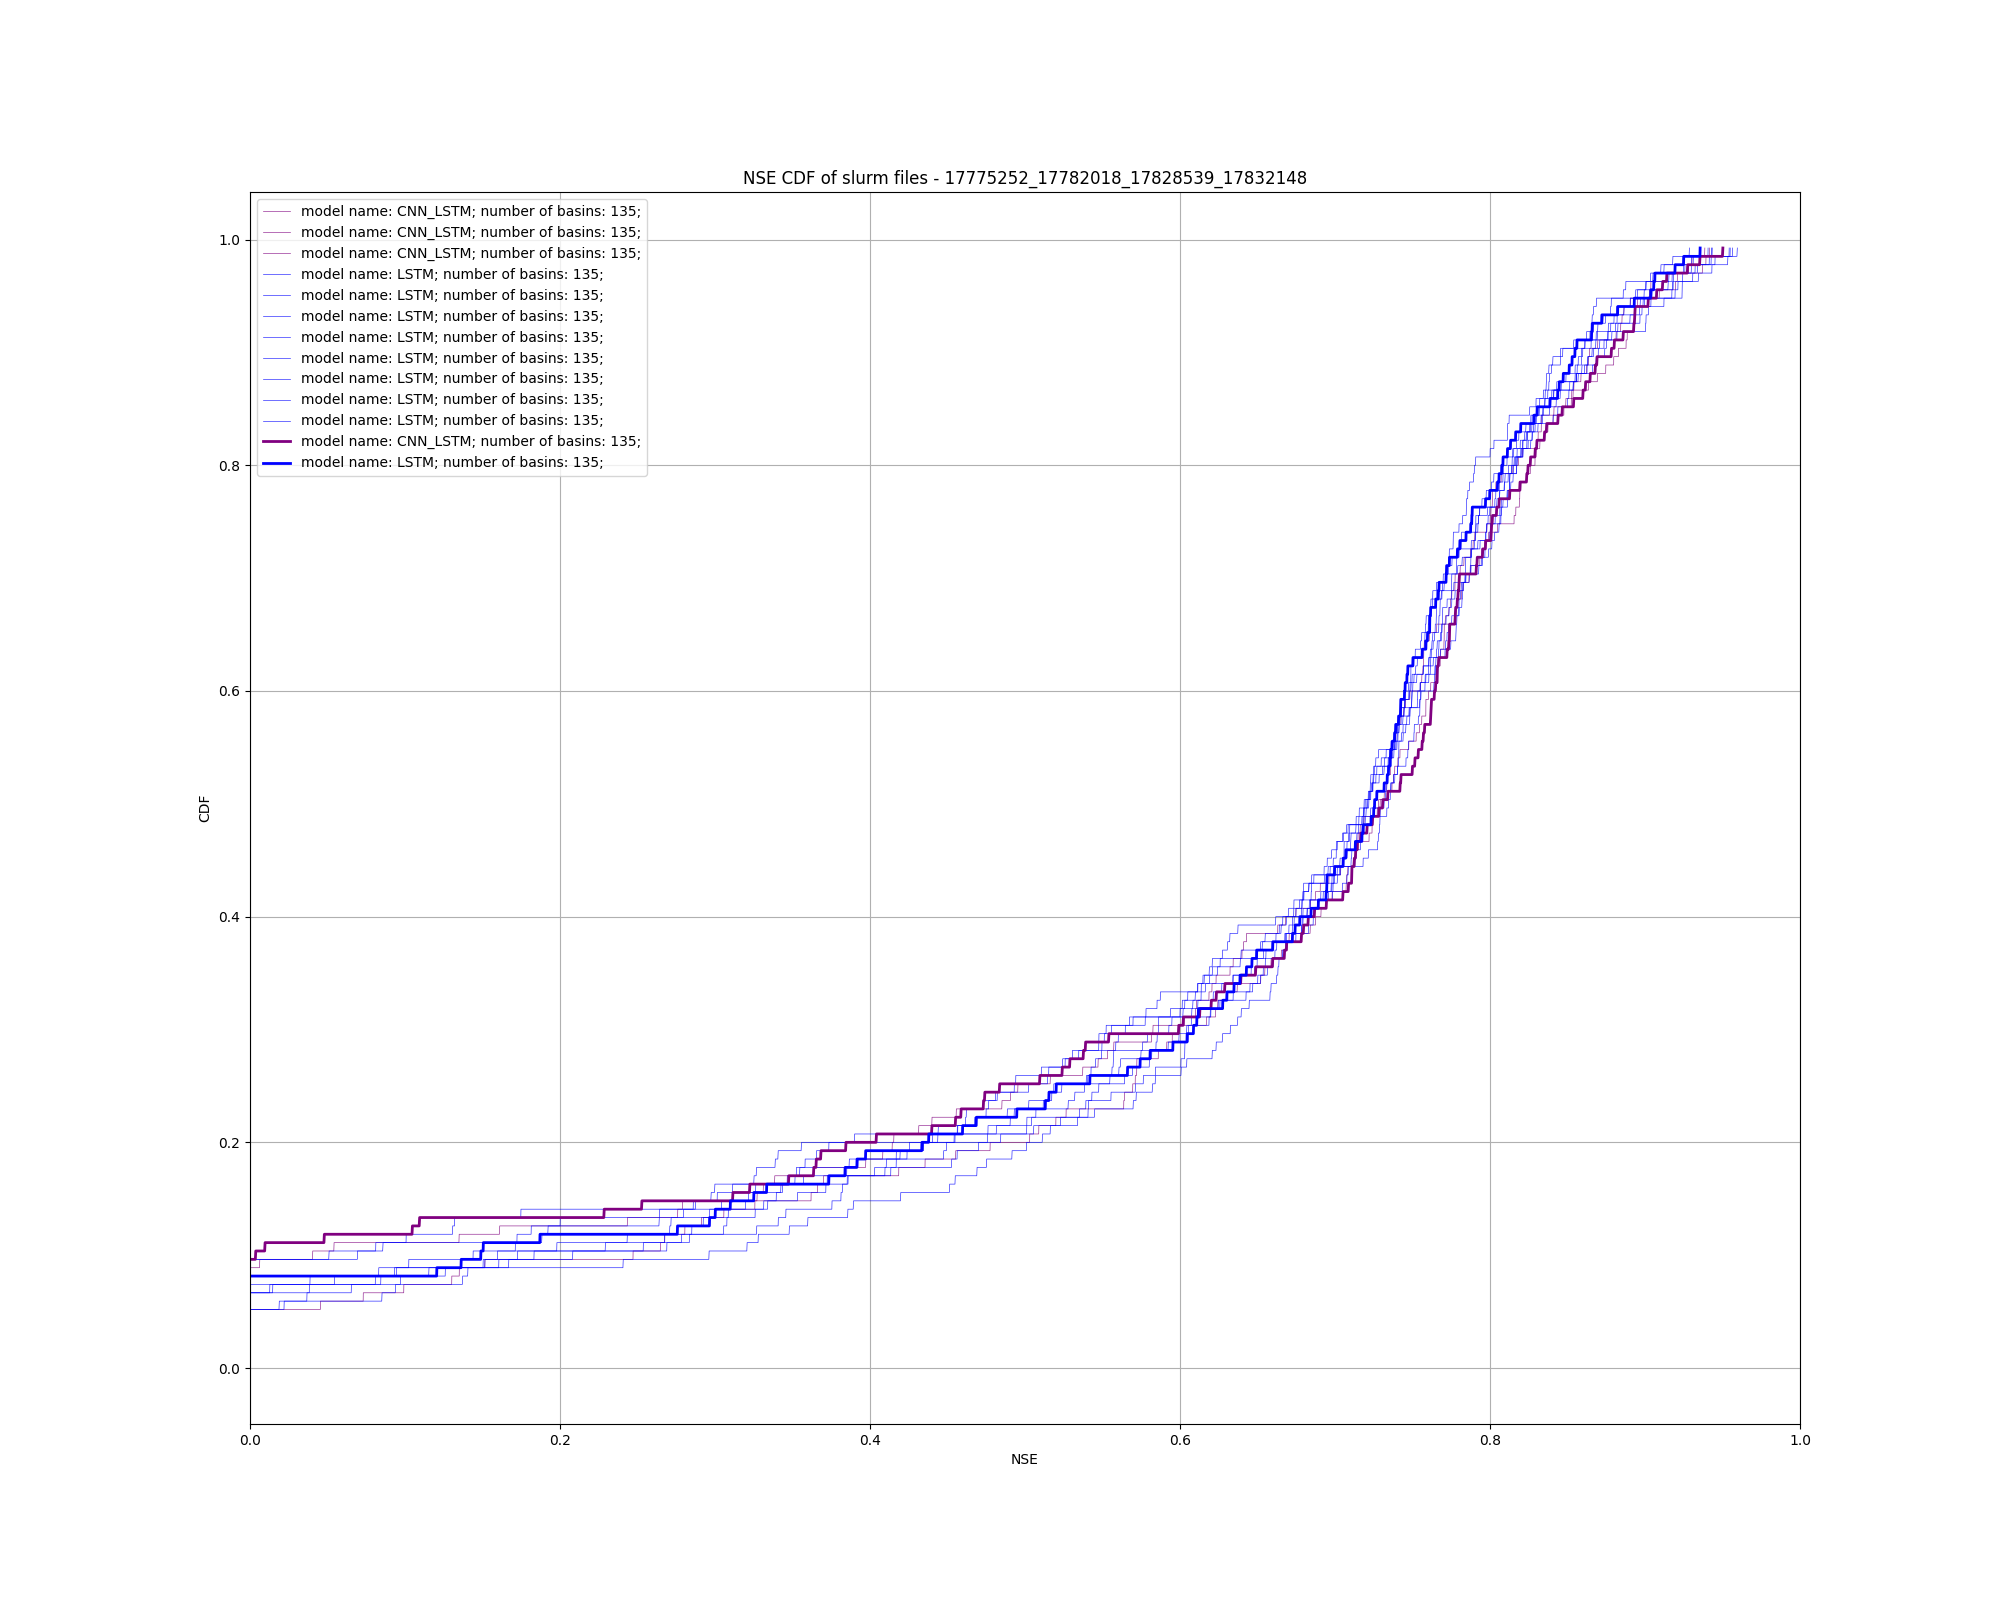
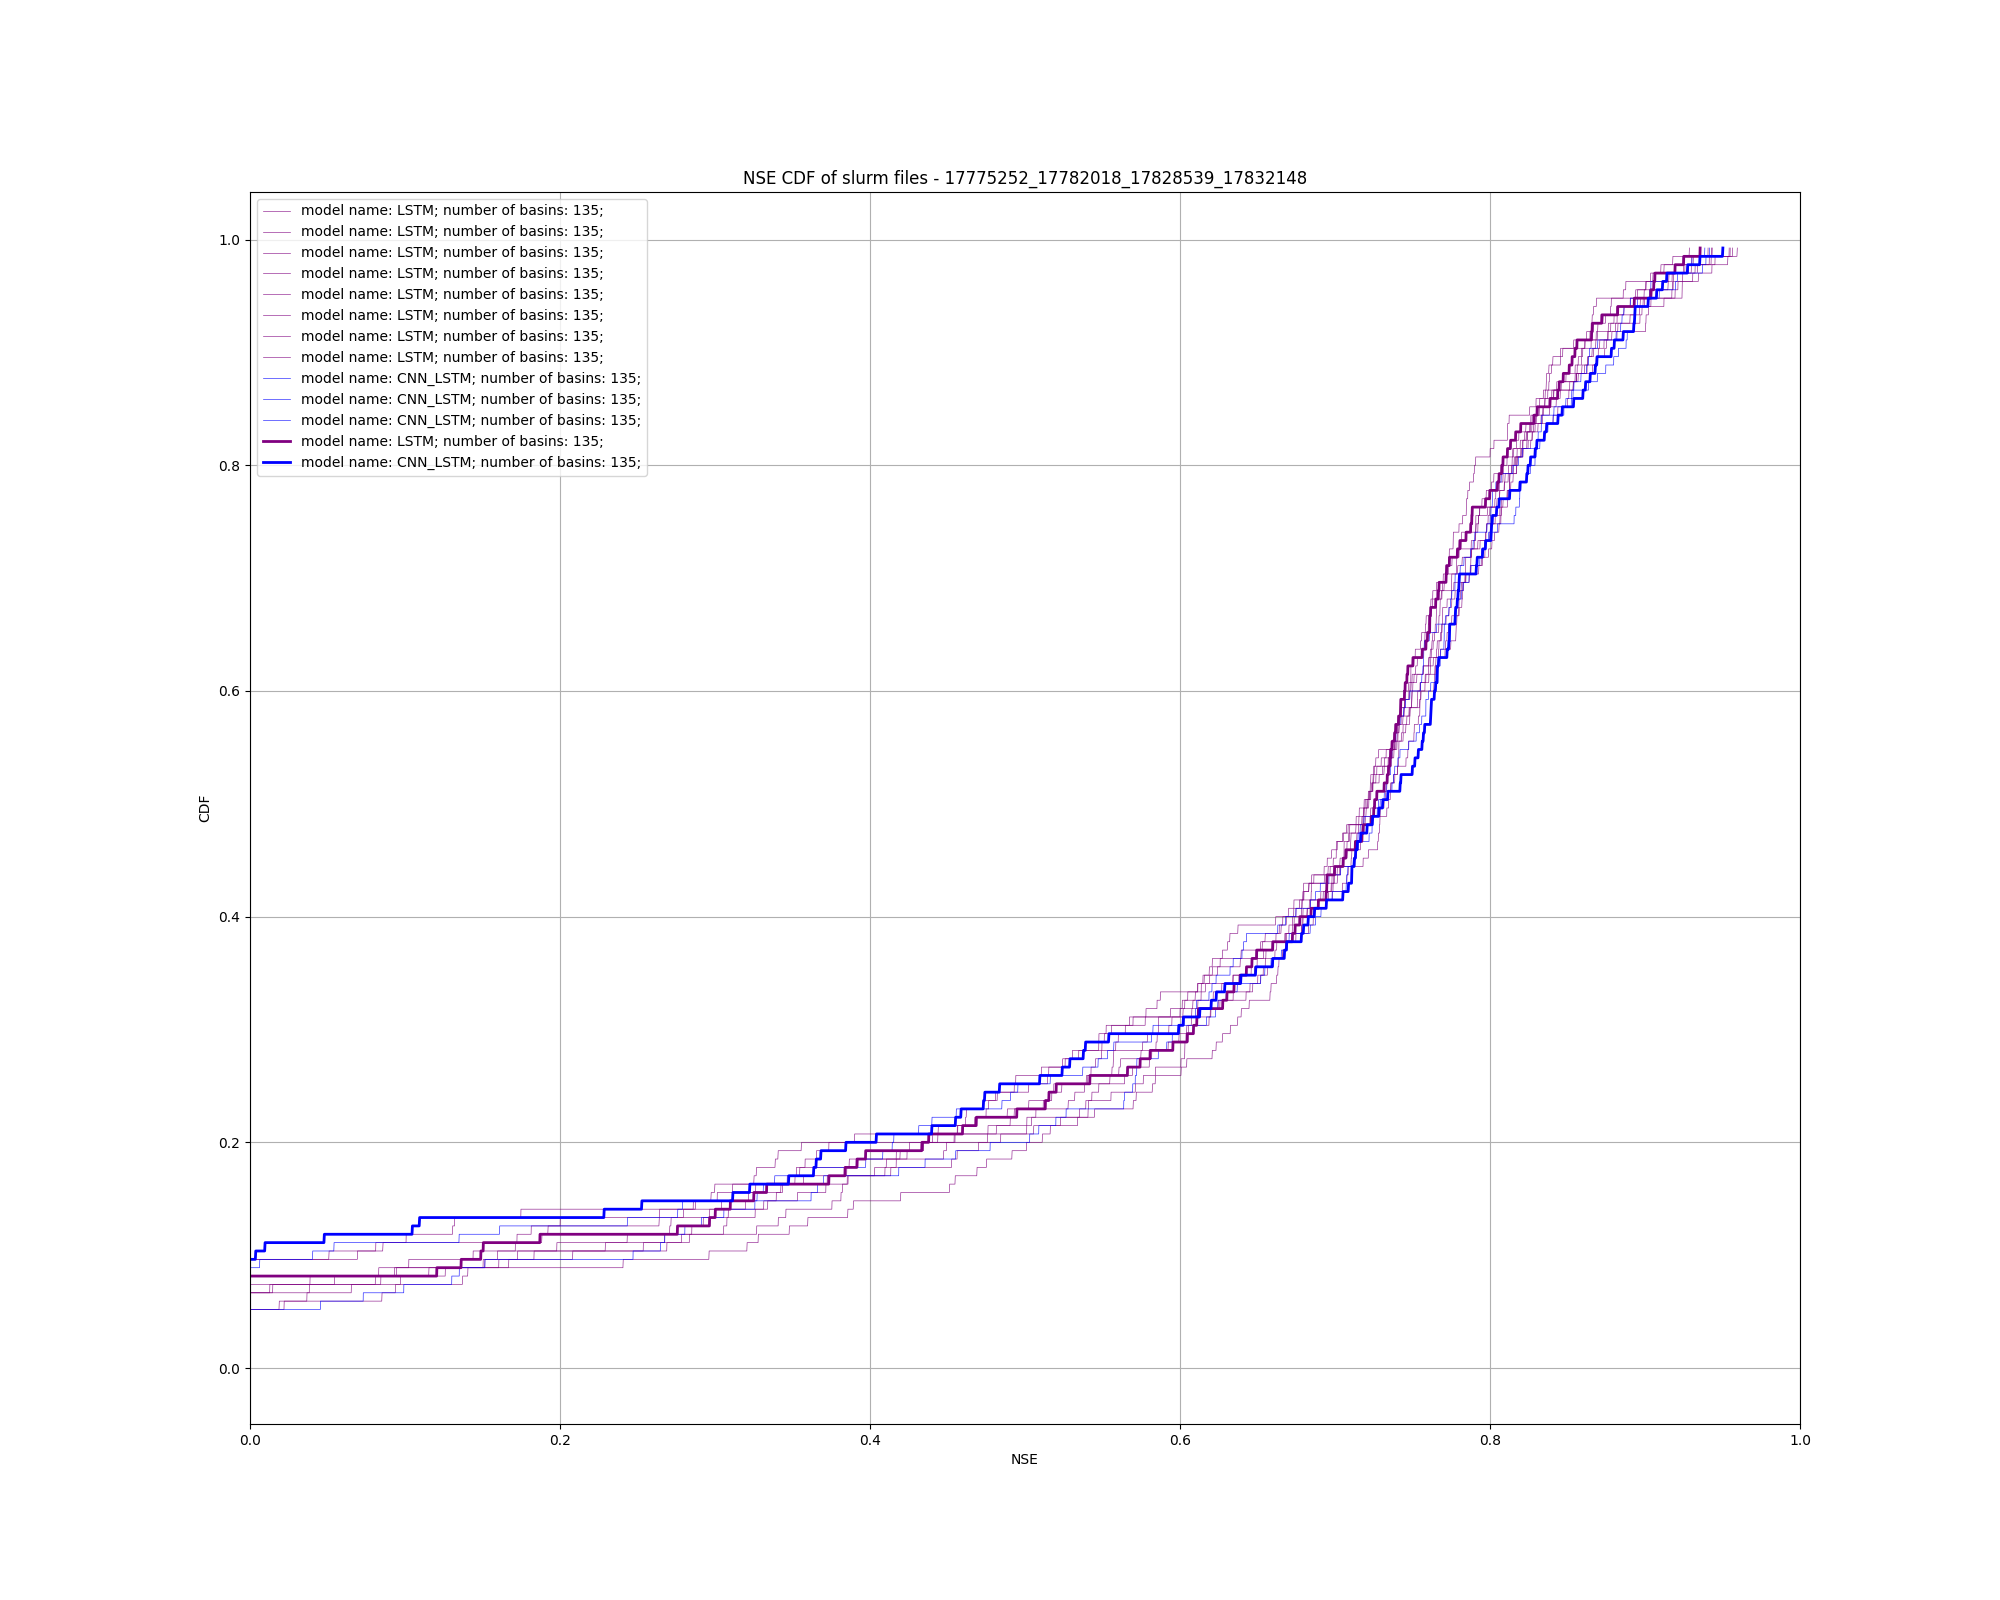
fixing creating NSE CDF plot from multiple files

Changed region(s): [[0.124, 0.25, 0.775, 0.8125], [0.155, 0.125, 0.31, 0.3125], [0.775, 0.1562, 0.868, 0.25]]

diff --git a/src/create_CDF_NSE_comparison_plot_from_slurm_output.py b/src/create_CDF_NSE_comparison_plot_from_slurm_output.py
@@ -67,7 +67,7 @@ def calc_best_nse_per_model_and_num_basins(models_basins_nse_dict):
                                 (model_name, run_number, basins_tuple, params_dict)] = list_nse
                             print(f"best epoch until now is: {epoch_num}")
     model_name_and_params_dict_to_nse_lists = {}
-    model_name_and_params_dict_to_avg_nse = {}
+    model_name_and_params_dict_to_sum_nse = {}
     for model_name_in_list in model_names:
         for params_dict_in_list in params_dicts:
             model_name_and_params_dict_to_nse_lists[(model_name_in_list, params_dict_in_list)] = []
@@ -80,12 +80,13 @@ def calc_best_nse_per_model_and_num_basins(models_basins_nse_dict):
             nse_lists = model_name_and_params_dict_to_nse_lists[(model_name_in_list, params_dict_in_list)]
             if len(nse_lists) > 0:
                 nse_lists_concat = np.vstack(nse_lists)
-                model_name_and_params_dict_to_avg_nse[(model_name_in_list, params_dict_in_list)] = np.mean(
+                model_name_and_params_dict_to_sum_nse[(model_name_in_list, params_dict_in_list)] = np.sum(
                     nse_lists_concat, axis=0)
-    return model_name_and_basins_tuple_to_best_nse, model_name_and_params_dict_to_avg_nse
+    return model_name_and_basins_tuple_to_best_nse, model_name_and_params_dict_to_sum_nse
 
 
 def create_dict_basin_id_to_NSE_my_code(logs_filename):
+    slurm_process_id = logs_filename.name.replace('slurm-', '').replace('.out', '')
     models_basins_nse_dict = {}
     model_name = "empty_model_name"
     run_number = 0
@@ -109,7 +110,8 @@ def create_dict_basin_id_to_NSE_my_code(logs_filename):
                 if new_run_number != run_number:
                     run_number = new_run_number
                     epoch_num = 1
-                    models_basins_nse_dict[(model_name, new_run_number, epoch_num, params_tuple)] = {}
+                    models_basins_nse_dict[
+                        (model_name, f"{new_run_number}_{slurm_process_id}", epoch_num, params_tuple)] = {}
                     print(f"run number: {run_number}")
             match_model_name_string = re.search("running with model: (.*?)\n", row)
             if match_model_name_string:
@@ -117,30 +119,40 @@ def create_dict_basin_id_to_NSE_my_code(logs_filename):
                 if new_model_name != model_name:
                     model_name = new_model_name
                 epoch_num = 1
-                models_basins_nse_dict[(model_name, run_number, epoch_num, params_tuple)] = {}
+                models_basins_nse_dict[(model_name, f"{run_number}_{slurm_process_id}", epoch_num, params_tuple)] = {}
             match_nse_string = re.search("station with id: (.*?) has nse of: (.*?)\n", row)
             if match_nse_string:
                 basin_id = match_nse_string.group(1)
                 basin_nse = float(match_nse_string.group(2))
-                models_basins_nse_dict[(model_name, run_number, epoch_num, params_tuple)][basin_id] = basin_nse
+                models_basins_nse_dict[(model_name, f"{run_number}_{slurm_process_id}", epoch_num, params_tuple)][
+                    basin_id] = basin_nse
             match_best_nse_so_far_string = re.search("best median NSE so far: (.*?)\n", row)
             if match_best_nse_so_far_string:
                 epoch_num += 1
-                models_basins_nse_dict[(model_name, run_number, epoch_num, params_tuple)] = {}
+                models_basins_nse_dict[(model_name, f"{run_number}_{slurm_process_id}", epoch_num, params_tuple)] = {}
     return models_basins_nse_dict
 
 
 def plot_NSE_CDF_graphs_my_code():
     # "slurm-17828539.out"
     input_file_names = ["slurm-17775252.out", "slurm-17782018.out", "slurm-17828539.out", "slurm-17832148.out"]
-    input_file_paths = [Path("../slurm_output_files/" + file_name).resolve() for file_name in input_file_names]
+    input_file_paths = [Path(f"../slurm_output_files/{file_name}").resolve() for file_name in input_file_names]
     dict_all_runs_from_all_files = {}
     dict_avg_runs_from_all_files = {}
     for input_file_path in input_file_paths:
-        d = create_dict_basin_id_to_NSE_my_code(f"{input_file_path}")
-        dict_all_runs, dict_avg_runs = calc_best_nse_per_model_and_num_basins(d)
-        dict_all_runs_from_all_files.update(dict_all_runs)
-        dict_avg_runs_from_all_files.update(dict_avg_runs)
+        d = create_dict_basin_id_to_NSE_my_code(input_file_path)
+        dict_all_runs_single_file, dict_sum_runs_single_file = calc_best_nse_per_model_and_num_basins(d)
+        dict_all_runs_from_all_files.update(dict_all_runs_single_file)
+        for (model_name_in_list, params_dict_in_list) in dict_sum_runs_single_file.keys():
+            if (model_name_in_list, params_dict_in_list) not in dict_avg_runs_from_all_files.keys():
+                dict_avg_runs_from_all_files[(model_name_in_list, params_dict_in_list)] = []
+            dict_avg_runs_from_all_files[(model_name_in_list, params_dict_in_list)].append(
+                dict_sum_runs_single_file[(model_name_in_list, params_dict_in_list)])
+    for (model_name_in_list, params_dict_in_list) in dict_avg_runs_from_all_files.keys():
+        list_of_nse_lists_for_one_model = dict_avg_runs_from_all_files[(model_name_in_list, params_dict_in_list)]
+        dict_avg_runs_from_all_files[(model_name_in_list, params_dict_in_list)] = np.mean(
+            np.vstack(list_of_nse_lists_for_one_model), axis=0)
+
     all_basins_tuples = set([basin_tuple for _, _, basin_tuple, _ in dict_all_runs_from_all_files.keys()])
     model_names = set([model_name for model_name, _, _, _ in dict_all_runs_from_all_files.keys()])
     run_numbers = set([run_number for _, run_number, _, _ in dict_all_runs_from_all_files.keys()])
